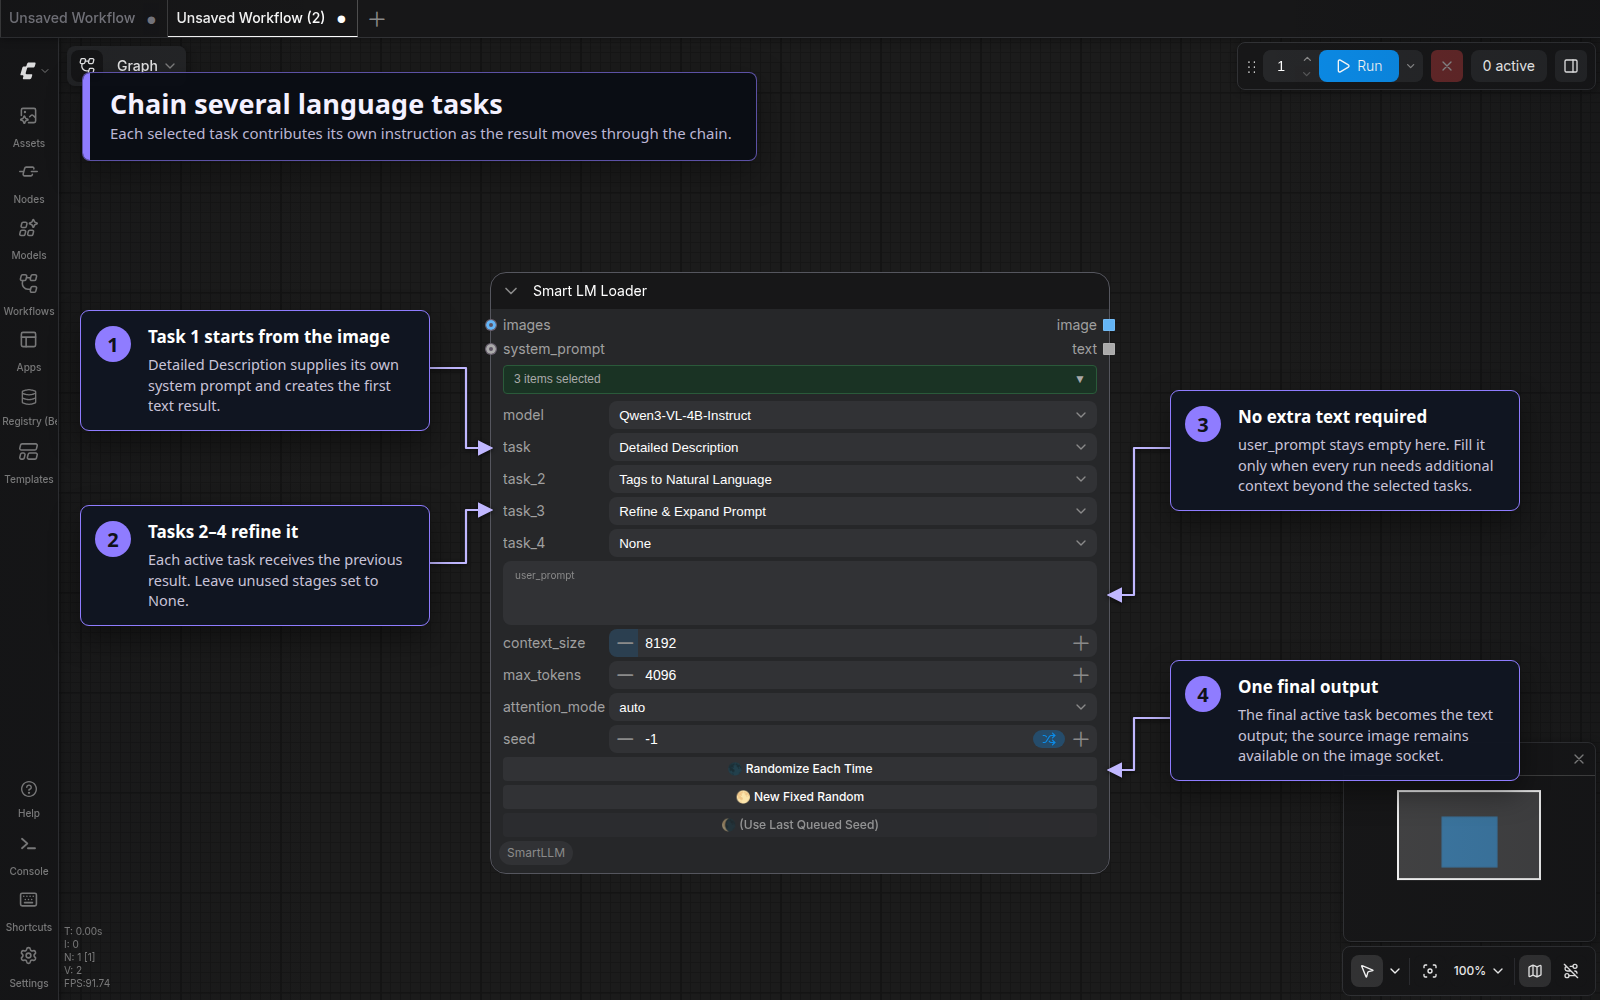
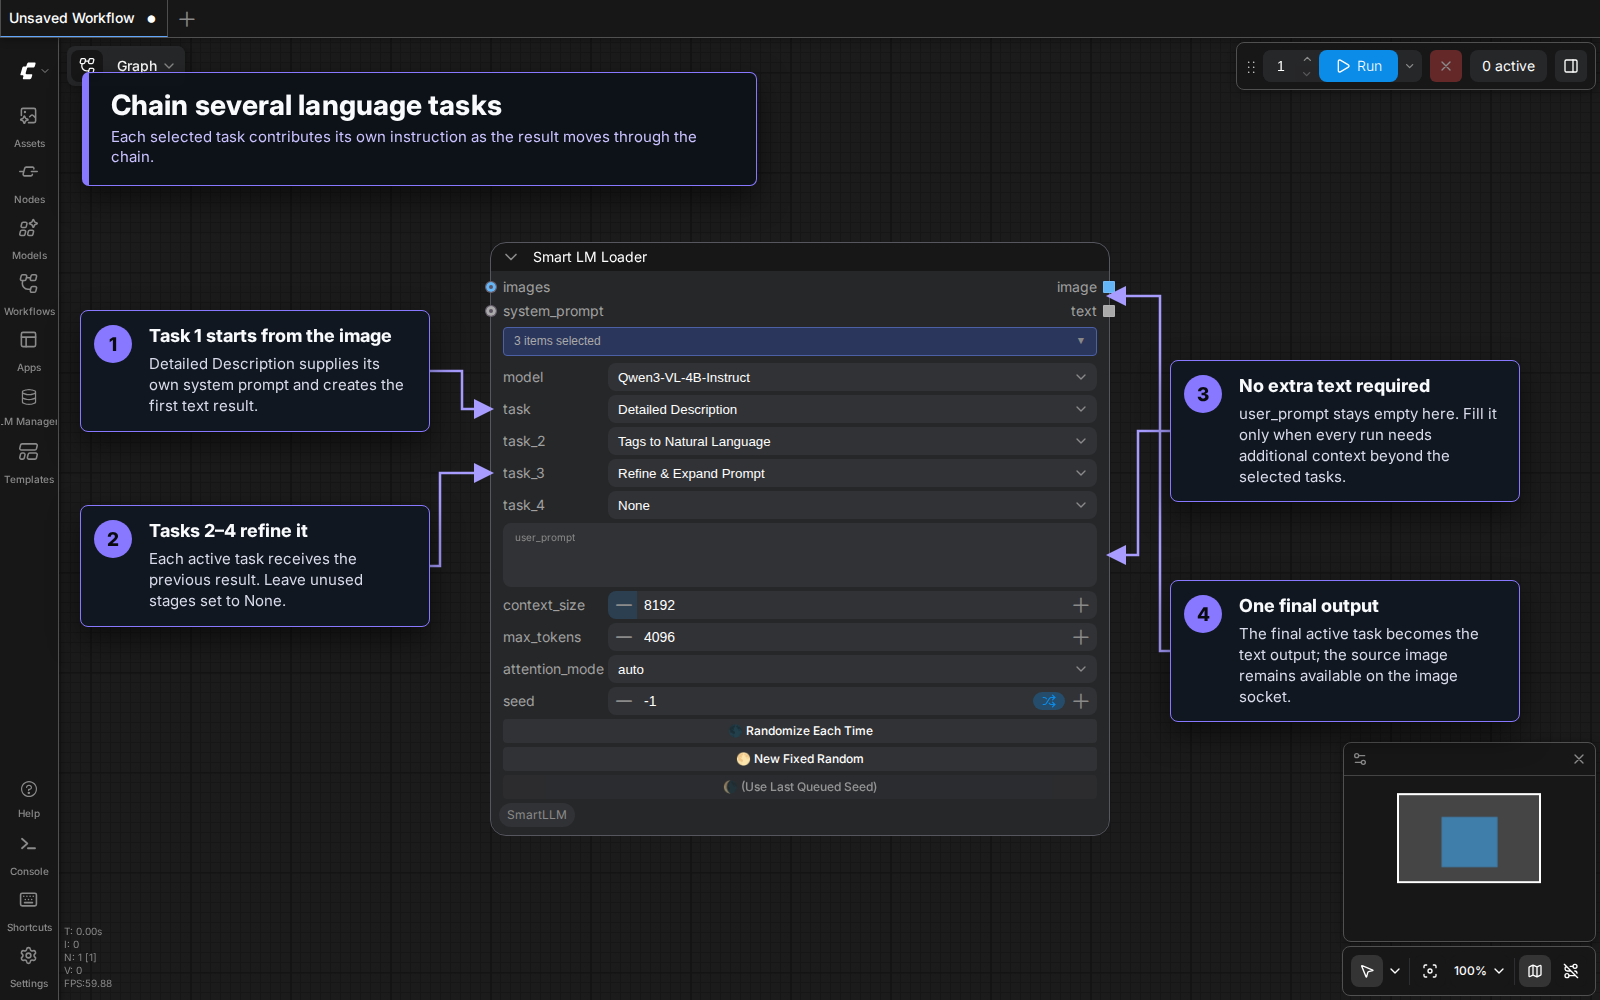
Version: 1.0.5
- Docs
  - Correct the Smart LM Loader multi-task visual tour so the final-output callout targets the image and text output sockets instead of the seed controls, with separated exterior routes and visible line segments before each arrowhead.

diff --git a/CHANGELOG.md b/CHANGELOG.md
@@ -1,5 +1,16 @@
 # Changelog
 
+## 2026-09-01
+
+### Version: 1.0.5
+
+- **Docs**
+  - Correct the Smart LM Loader multi-task visual tour so the final-output callout targets the image and text output sockets instead of the seed controls, with separated exterior routes and visible line segments before each arrowhead.
+
+**Changed files:**
+- `Readme/assets/multi-task.png`
+- `pyproject.toml`
+
 ## 2026-08-29
 
 ### Version: 1.0.4
